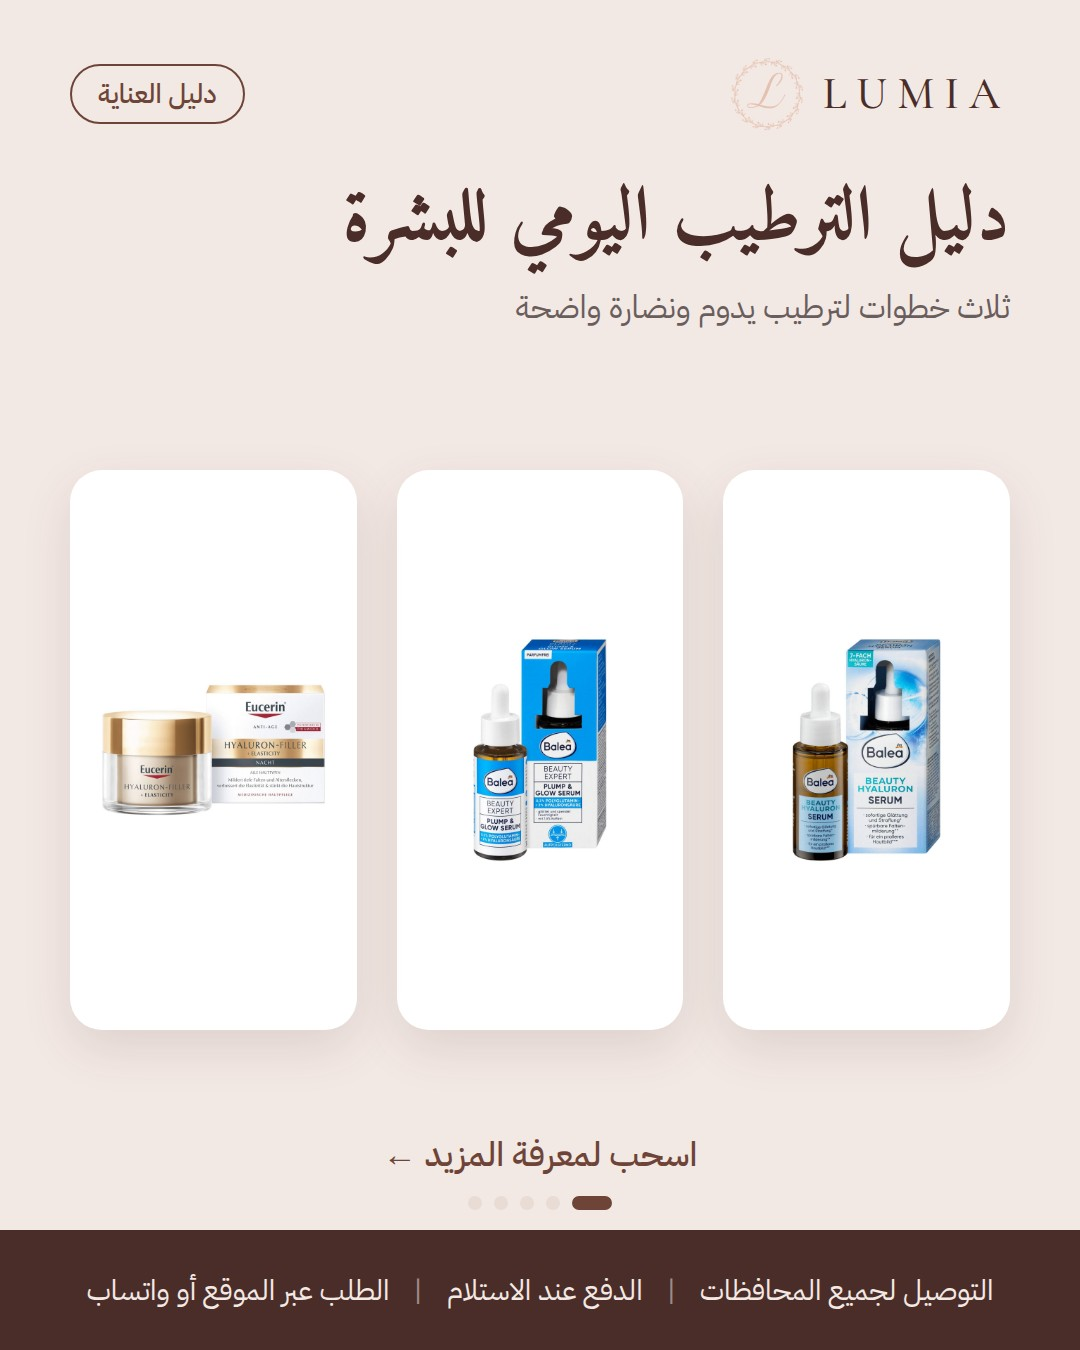
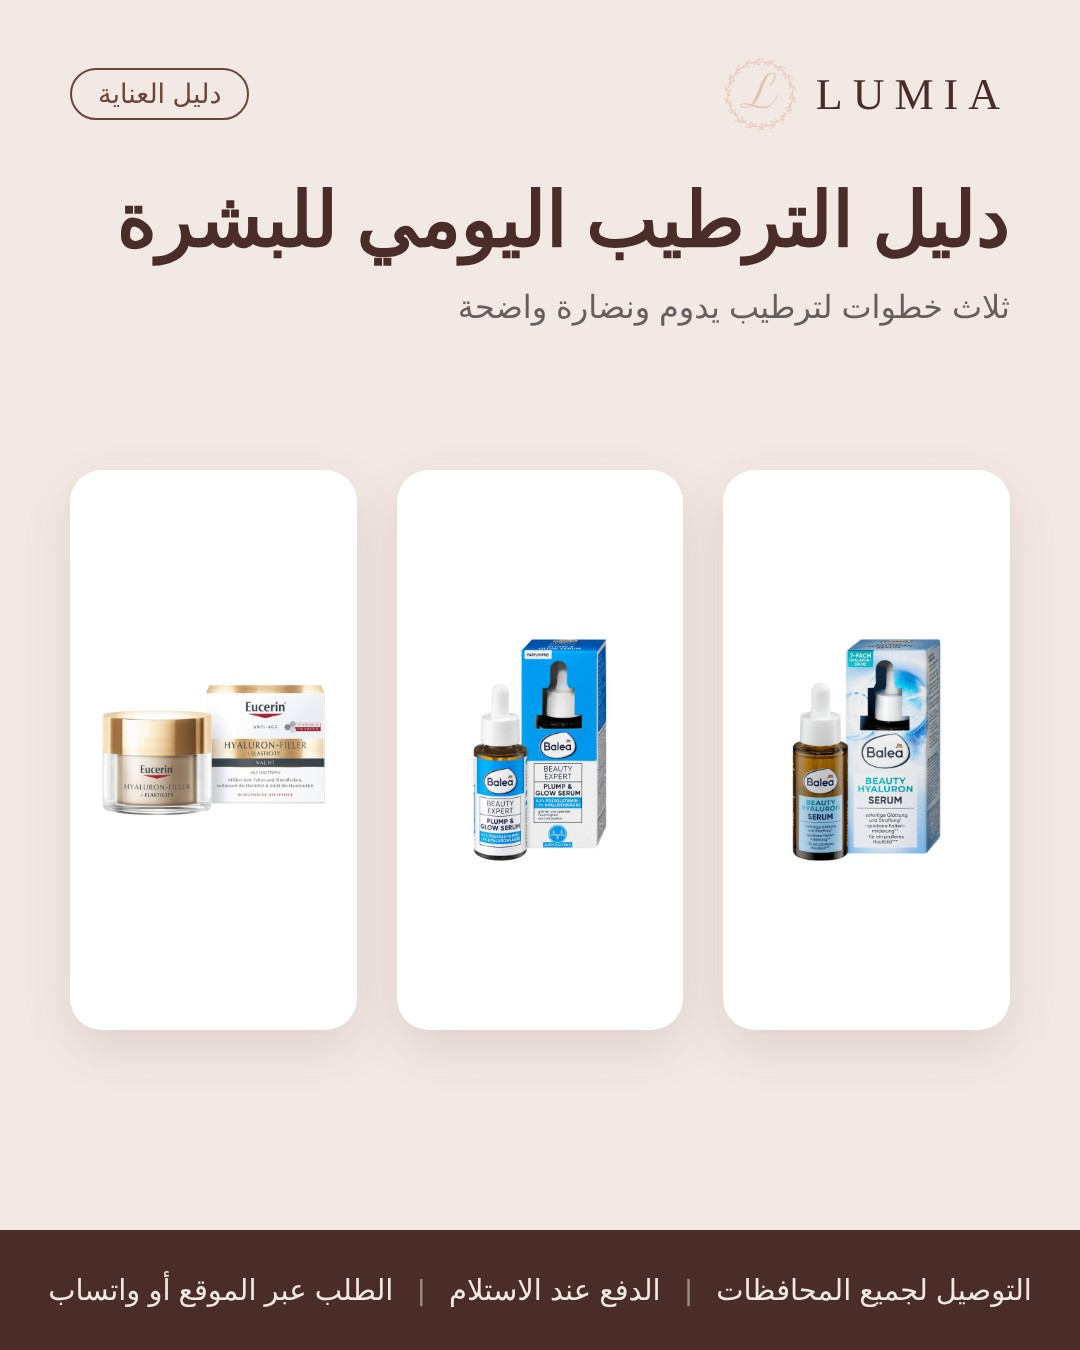
♡ off the sale badge; robot: no stock/pre-order words, no swipe; waiting guide post cleaned
Claude-Session: https://claude.ai/code/session_01UxPfLNnQudafPXDmi8bmH5

diff --git a/social/robot.js b/social/robot.js
@@ -11,7 +11,38 @@
  * Settings come from GitHub secrets: META_TOKEN, META_PAGE_ID, META_IG_ID, CLAUDE_KEY, GEMINI_KEY, AI_PREFER.
  */
 const fs = require('fs'), path = require('path');
-const P = require('./plan.js'), { writePost } = require('./write.js'), { renderPost } = require('./render.js');
+const P = require('./plan.js'), { writePost, tidy } = require('./write.js'), { renderPost } = require('./render.js');
+
+/* Posts written before a rule changed are cleaned once: text tidied again and pictures redrawn.
+   v2 (Nov 2026, Mina): no stock / pre-order words and no "swipe" (the same post goes to Facebook). */
+const CLEAN_V = 2;
+function cleanWords(w) {
+  const o = Object.assign({}, w);
+  for (const k of ['caption', 'headline', 'title', 'sub']) if (o[k]) o[k] = tidy(o[k]);
+  for (const k of ['lines', 'chips']) if (Array.isArray(o[k])) o[k] = o[k].map(tidy).filter(Boolean);
+  if (Array.isArray(o.slides)) o.slides = o.slides.map(x => Object.assign({}, x, { title: tidy(x.title), points: [].concat(x.points || []).map(tidy).filter(Boolean) }));
+  if (Array.isArray(o.steps)) o.steps = o.steps.map(x => Object.assign({}, x, { step: tidy(x.step), why: tidy(x.why) }));
+  return o;
+}
+async function refreshOld(items, data, byId, getBrowser) {
+  let n = 0;
+  for (const it of items) {
+    if ((it.cleanV || 0) >= CLEAN_V || it.type === 'ad' || !['waiting', 'approved'].includes(it.status)) continue;   // ads: in-stock products only, no labels
+    const ps = (it.products || []).map(id => byId[id]);
+    if (!ps.length || ps.some(p => !p)) continue;
+    try {
+      it.words = cleanWords(it.words || {});
+      const files = await renderPost({ item: it, words: it.words, products: ps, data, siteDir: SITE_DIR, outDir: MEDIA, browser: await getBrowser() });
+      const v = '?v=' + Date.now().toString(36);   // new address, so Meta and the app do not reuse the old picture
+      it.media = { images: files.images.map(f => mediaUrl(f) + v), story: files.story ? mediaUrl(files.story) + v : '', video: files.video ? mediaUrl(files.video) + v : '', cover: files.cover ? mediaUrl(files.cover) + v : '' };
+      it.files = [...files.images, files.story, files.video].filter(Boolean);
+      it.preview = { fb: captionFor(it, it.words, ps, data, 'fb'), ig: captionFor(it, it.words, ps, data, 'ig'), igTail: captionFor(it, Object.assign({}, it.words, { caption: '' }), ps, data, 'ig') };
+      it.cleanV = CLEAN_V; n++;
+      log('cleaned an older post', it.id);
+    } catch (e) { log('could not clean', it.id, e.message); }
+  }
+  return n;
+}
 const need = n => { try { return require('./' + n); } catch (e) { if (e.code !== 'MODULE_NOT_FOUND') throw e; return require('../desktop/' + n); } };
 const meta = need('meta.js');
 
@@ -54,16 +85,15 @@ function fakeWords(item, ps) {
   };
 }
 
-/* the full caption: the AI's words + facts the robot adds itself (product, stock, how to order). No prices — Mina's choice. */
+/* the full caption: the AI's words + facts the robot adds itself (product, how to order). No prices, no stock words — Mina's choice. */
 function captionFor(item, words, products, data, platform) {
   const wa = String(data.whatsapp || '').replace(/\D/g, ''), waNice = '+' + wa.replace(/^(\d{2})(\d{2})(\d{4})(\d+)$/, '$1 $2 $3 $4');
   const site = SITE_URL.replace(/^https?:\/\//, '').replace(/\/$/, '');
-  const pre = data.preorderNote || 'طلب مسبق: يصل خلال أسبوع إلى أسبوعين';
   const line = p => `${p.brand} · ${p.nameAr || p.nameEn || p.name}${p.size ? ' · ' + p.size : ''}`;
   const out = [String(words.caption || '').trim(), ''];
   if (item.type !== 'trust') {
-    if (products.length === 1) { const p = products[0]; out.push(`✨ ${line(p)}`, p.stock > 0 ? '📦 متوفر الآن' : `📦 ${pre}`); }
-    else for (const p of products) out.push(`• ${line(p)}${p.stock > 0 ? '' : ' (طلب مسبق)'}`);
+    if (products.length === 1) out.push(`✨ ${line(products[0])}`);
+    else for (const p of products) out.push(`• ${line(p)}`);
     out.push('');
   }
   // how to order: the website or WhatsApp (Instagram does not make links clickable, so it points to the bio)
@@ -89,6 +119,7 @@ async function prepare() {
   const byId = Object.fromEntries(data.products.map(p => [p.id, p]));
   let br = null, made = 0, cost = 0; const errors = [], aiNotes = [];
   try {
+    if (await refreshOld(q.items, data, byId, async () => (br = br || await browser()))) saveQueue(q);
     for (let i = 0; i < DAYS_AHEAD; i++) {
       const date = P.addDays(today, i);
       // one post a day; if Mina skipped it (today or later), a replacement is written — at most 2 a day
@@ -119,7 +150,7 @@ async function prepare() {
         files: [...files.images, files.story, files.video].filter(Boolean),
         preview: { fb: captionFor(plan, w.words, used, data, 'fb'), ig: captionFor(plan, w.words, used, data, 'ig'),
           igTail: captionFor(plan, Object.assign({}, w.words, { caption: '' }), used, data, 'ig') },   // price/stock/order lines, added after an edited text when shared by hand
-        status: 'waiting', ai: w.provider, aiNote: w.fallback || '', createdAt: new Date().toISOString()
+        status: 'waiting', cleanV: CLEAN_V, ai: w.provider, aiNote: w.fallback || '', createdAt: new Date().toISOString()
       });
       delete item.pick;
       q.items.push(item); made++; cost += w.cost || 0;
@@ -179,6 +210,7 @@ async function post() {
   if (!token || !pageId) { log('Meta is not connected — approved posts are shared by hand from the app'); return; }
   let br = null;
   try {
+    if (!dry && await refreshOld(due, data, byId, async () => (br = br || await browser()))) { saveQueue(q); for (const it of due) if (it.media && it.media.images[0]) await waitLive(it.media.images[0]); }
     for (const it of due) {
       it.status = 'posting'; it.results = it.results || {};
       // 1. check the shop again
@@ -186,7 +218,7 @@ async function post() {
       if (ps.some(p => !p)) { it.status = 'failed'; it.note = 'A product in this post was removed from the shop.'; continue; }
       const sold = ps.filter(p => P.availOf(p) === 'out');
       if (sold.length) { it.status = 'failed'; it.note = 'Not posted: sold out — ' + sold.map(p => p.name).join(', '); continue; }
-      const changed = ps.some(p => (it.snapshot[p.id] || {}).avail !== P.availOf(p));   // pictures show no prices, only the stock label
+      const changed = false;   // pictures show no prices and no stock, so nothing to redraw
       if (changed && it.type !== 'trust') {
         log('price/stock changed → redrawing', it.id);
         br = br || await browser();

diff --git a/social/ai.js b/social/ai.js
@@ -107,7 +107,7 @@ async function geminiFill({ key, images, categories, context, fetchImpl = fetch,
   if ((!images || !images.length) && !context) fail('Add a photo of the product first.');
   const body = {
     contents: [{ role: 'user', parts: [{ text: prompt(categories || [], context) }, ...(images || []).slice(0, 4).map(b64 => ({ inline_data: { mime_type: 'image/jpeg', data: b64 } }))] }],
-    generationConfig: { temperature: 0.2, responseMimeType: 'application/json' }
+    generationConfig: { temperature: 0.2, responseMimeType: 'application/json', maxOutputTokens: 8192 }
   };
   let lastErr = '';
   for (const model of (geminiModel === 'lite' ? MODELS_LITE : MODELS)) {
@@ -127,7 +127,7 @@ async function geminiFill({ key, images, categories, context, fetchImpl = fetch,
     const parts = json && json.candidates && json.candidates[0] && json.candidates[0].content && json.candidates[0].content.parts || [];
     const raw = parts.map(p => p.text || '').join('').trim().replace(/^```(?:json)?\s*|\s*```$/g, '');
     let data;
-    try { data = JSON.parse(raw); } catch (e) { fail('The AI answer could not be read. Try again, or use a sharper photo.'); }
+    try { data = parseJson(raw); } catch (e) { fail('The AI answer could not be read. Try again, or use a sharper photo.'); }
     const out = clean(Array.isArray(data) ? data[0] || {} : data);
     return { data: out, provider: 'Gemini', model, cost: 0 };
    }
@@ -158,7 +158,7 @@ async function claudeFill({ key, images, categories, context, tier = 'fast', fet
   if ((!images || !images.length) && !context) fail('Add a photo of the product first.');
   const m = CLAUDE[tier] || CLAUDE.fast;
   const body = {
-    model: m.model, max_tokens: 3500,
+    model: m.model, max_tokens: 8000,   // Arabic + English texts + the full ingredient list need room
     messages: [{ role: 'user', content: [
       ...(images || []).slice(0, 4).map(b64 => ({ type: 'image', source: { type: 'base64', media_type: 'image/jpeg', data: b64 } })),
       { type: 'text', text: prompt(categories || [], context) + '\nAnswer with the JSON object only.' }
@@ -186,8 +186,13 @@ async function claudeFill({ key, images, categories, context, tier = 'fast', fet
     }
     if (!res.ok) fail('Claude answered with error ' + res.status + (msg ? ': ' + msg : '') + '.');
     const raw = ((json && json.content) || []).filter(c => c.type === 'text').map(c => c.text).join('');
+    const cut = json && json.stop_reason === 'max_tokens';
     let data;
-    try { data = parseJson(raw); } catch (e) { fail('The AI answer could not be read. Try again, or use a sharper photo.'); }
+    try { data = parseJson(raw); } catch (e) {
+      // the answer was cut off (too long) or came back broken: ask once more for a shorter answer, then let Gemini try
+      if (attempt === 0) { body.max_tokens = 12000; body.messages[0].content[body.messages[0].content.length - 1].text += '\nKeep every text short (description max 3 sentences, features max 5 short items). Output complete, valid JSON.'; continue; }
+      const er = new Error('unreadable'); er.userMessage = cut ? 'Claude\'s answer was too long and got cut off.' : 'Claude\'s answer could not be read.'; er.fallback = true; throw er;
+    }
     const u = (json && json.usage) || {};
     const cost = ((u.input_tokens || 0) * m.inPrice + (u.output_tokens || 0) * m.outPrice) / 1e6;
     return { data: clean(data), provider: m.label, model: m.model, cost, usage: u };

diff --git a/social/render.js b/social/render.js
@@ -74,7 +74,7 @@ h1.m{font-size:64px}
 const head = (chip) => `<div class="top"><div class="brand"><img src="logo-mark.png"><b>LUMIA</b></div>${chip ? `<div class="chip">${hx(chip)}</div>` : ''}</div>`;
 const band = (d) => `<div class="band">التوصيل لجميع المحافظات <em>|</em> الدفع عند الاستلام <em>|</em> الطلب عبر الموقع أو واتساب</div>`;
 const priceBadge = (p, top) => `<div class="price" style="top:${top}px">${+p.was > +p.price ? `<s>${hx(p.was)}</s>` : ''}<b>${hx(p.price)}</b><i>جنيه</i></div>`;
-const preChip = p => (p.stock > 0 ? '' : `<span class="pre">طلب مسبق</span>`);
+const preChip = () => '';   // Mina: pictures never show stock or pre-order
 const sizeTxt = p => p.size ? ` · <span class="lat">${hx(p.size)}</span>` : '';
 
 /* one page (slide) of a post → HTML */
@@ -96,7 +96,7 @@ const T = {
   guideCover(w, ps, n) {
     return `<div class="s">${head('دليل العناية')}<h1>${hx(w.title)}</h1><div class="sub">${hx(w.sub || '')}</div>
       <div class="two" style="top:470px">${ps.slice(0, 3).map(p => `<div style="height:560px"><img src="${hx(p.image)}" style="height:420px"></div>`).join('')}</div>
-      <div class="swipe">اسحب لمعرفة المزيد ←</div><div class="dots">${Array.from({ length: n }, (_, i) => `<i${i ? '' : ' class="on"'}></i>`).join('')}</div>${band()}</div>`;
+      ${band()}</div>`;   // no "swipe" line: the same pictures go to Facebook
   },
   guideSlide(sl, p, i, n) {
     return `<div class="s"><div class="num">${i + 1} / ${n}</div>${head('')}
@@ -104,12 +104,12 @@ const T = {
       <div class="card" style="top:290px;height:560px"><img src="${hx(p.image)}"></div>
       <div class="pn"><span class="lat">${hx(p.brand)}</span> · ${hx(nm(p))}${sizeTxt(p)}</div>
       <ul class="pts">${sl.points.map(x => `<li>${hx(x)}</li>`).join('')}</ul>
-      <div class="dots">${Array.from({ length: n }, (_, k) => `<i${k === i ? ' class="on"' : ''}></i>`).join('')}</div>${band()}</div>`;
+      ${band()}</div>`;
   },
   cta(d, i, n) {
     return `<div class="s"><div class="cta"><div class="brand big"><img src="logo-mark.png"><b>LUMIA</b></div><h2>للطلب عبر الموقع أو واتساب</h2>
       <div class="wa" style="background:var(--band)">${hx(d.site)}</div><div class="wa">${hx(d.waText)}</div><p>منتجات أصلية مستوردة من ألمانيا<br>التوصيل لجميع المحافظات · الدفع عند الاستلام</p></div>
-      ${n ? `<div class="dots">${Array.from({ length: n }, (_, k) => `<i${k === i ? ' class="on"' : ''}></i>`).join('')}</div>` : ''}</div>`;
+      </div>`;   // no swipe dots: Facebook shows the pictures as a grid
   },
   routine(w, ps) {
     const by = Object.fromEntries(ps.map(p => [p.id, p]));

diff --git a/social/write.js b/social/write.js
@@ -19,6 +19,7 @@ STRICT RULES:
 4. Do not address one gender. Avoid "اطلبي/جربي/بشرتكِ" and "اطلب/جرب/بشرتك"; use neutral phrases: "للطلب"، "تجربة لطيفة لـ…"، "البشرة"، "الشعر".
 5. NEVER write a price, a discount, "عرض"، "خصم"، "كمية محدودة"، "آخر قطعة" or any urgency.
 5b. NEVER write how to order, WhatsApp, the website, delivery, shipping or payment — the system adds these lines itself after your text.
+5d. NEVER mention stock or availability (متوفر، متاح الآن، طلب مسبق، نفد، الكمية) and NEVER ask to swipe/slide or refer to "the next picture" — the same post goes to Facebook, where photos are not swiped.
 5c. Our products come from German drugstores/shops (متاجر ألمانية مثل dm وRossmann) — never call them pharmacies (صيدليات) or medical products.
 6. Brand names stay in their original Latin spelling (Balea, essence, Eucerin, LANGHAARMÄDCHEN…). Product names in Arabic as shoppers in Egypt say them.
 7. No hashtags inside the caption text; put them only in "hashtags".
@@ -59,9 +60,10 @@ ${SHAPES[item.type]}`;
 /* small safety net on top of the rules: removes words the AI must never use, and any price it slipped in */
 const BANNED = /(يعالج|يشفي|يقضي على|نهائياً|نهائيا|الأفضل|مضمون[ةه]?|رقم 1|كمية محدودة|آخر قطعة|خصم|عرض خاص)/g;
 const PRICEY = /\d+\s*(ج\.?م|جنيه|EGP|LE)\b/gi;
+const STATUS_LINE = /(اسحب|اسحبي|مرر|مرّر|swipe|الصورة التالية|الصور التالية|متوفر|متوفّر|متاح الآن|متوفرة الآن|طلب مسبق|الطلب المسبق|بالطلب المسبق|المخزون|نفد|نفذت|pre-?order|in stock)/i;   // Mina: no stock words, no swiping (Facebook)
 const ORDER_LINE = /(واتساب|واتس|الواتس|whatsapp|للطلب|اطلب|التوصيل|توصيل|الشحن|شحن|الدفع|عند الاستلام|الموقع|الرابط|البايو)/i;
 function tidy(text) {
-  return String(text || '').split('\n').filter(l => !ORDER_LINE.test(l)).join('\n').replace(PRICEY, '').replace(BANNED, '').replace(/[ \t]+\n/g, '\n').replace(/\n{3,}/g, '\n\n').replace(/ {2,}/g, ' ').trim();
+  return String(text || '').split('\n').filter(l => !ORDER_LINE.test(l) && !STATUS_LINE.test(l)).join('\n').replace(PRICEY, '').replace(BANNED, '').replace(/[ \t]+\n/g, '\n').replace(/\n{3,}/g, '\n\n').replace(/ {2,}/g, ' ').trim();
 }
 const tag = h => '#' + String(h || '').replace(/^#+/, '').trim().replace(/\s+/g, '_');
 

diff --git a/index.html b/index.html
@@ -1074,7 +1074,7 @@ footer .fcol b{text-transform:none;letter-spacing:.02em;font-size:13px}
 .hib.acc.in{color:var(--wine)}
 .hib.acc.in::after{content:"";position:absolute;bottom:6px;inset-inline-end:6px;width:7px;height:7px;border-radius:50%;background:#2e7d4f;border:1.5px solid var(--page,#fff)}
 .hib.acc{position:relative}
-.fav{position:absolute;top:8px;inset-inline-start:8px;z-index:3;width:34px;height:34px;border-radius:50%;border:0;background:rgba(255,255,255,.88);color:var(--ink,#2c2325);display:flex;align-items:center;justify-content:center;cursor:pointer;box-shadow:0 2px 8px rgba(0,0,0,.08)}
+.fav{position:absolute;top:8px;inset-inline-end:8px;z-index:3;width:34px;height:34px;border-radius:50%;border:0;background:rgba(255,255,255,.88);color:var(--ink,#2c2325);display:flex;align-items:center;justify-content:center;cursor:pointer;box-shadow:0 2px 8px rgba(0,0,0,.08)}
 .fav svg{width:18px;height:18px}.fav.on{color:var(--wine,#8a3445)}.fav.on svg{fill:currentColor}
 .pdp-top .ib.fav{position:static;box-shadow:none;background:transparent}
 .accwhy{margin:2px 0 12px;line-height:1.6}

diff --git a/wholesale/index.html b/wholesale/index.html
@@ -1073,7 +1073,7 @@ footer .fcol b{text-transform:none;letter-spacing:.02em;font-size:13px}
 .hib.acc.in{color:var(--wine)}
 .hib.acc.in::after{content:"";position:absolute;bottom:6px;inset-inline-end:6px;width:7px;height:7px;border-radius:50%;background:#2e7d4f;border:1.5px solid var(--page,#fff)}
 .hib.acc{position:relative}
-.fav{position:absolute;top:8px;inset-inline-start:8px;z-index:3;width:34px;height:34px;border-radius:50%;border:0;background:rgba(255,255,255,.88);color:var(--ink,#2c2325);display:flex;align-items:center;justify-content:center;cursor:pointer;box-shadow:0 2px 8px rgba(0,0,0,.08)}
+.fav{position:absolute;top:8px;inset-inline-end:8px;z-index:3;width:34px;height:34px;border-radius:50%;border:0;background:rgba(255,255,255,.88);color:var(--ink,#2c2325);display:flex;align-items:center;justify-content:center;cursor:pointer;box-shadow:0 2px 8px rgba(0,0,0,.08)}
 .fav svg{width:18px;height:18px}.fav.on{color:var(--wine,#8a3445)}.fav.on svg{fill:currentColor}
 .pdp-top .ib.fav{position:static;box-shadow:none;background:transparent}
 .accwhy{margin:2px 0 12px;line-height:1.6}
